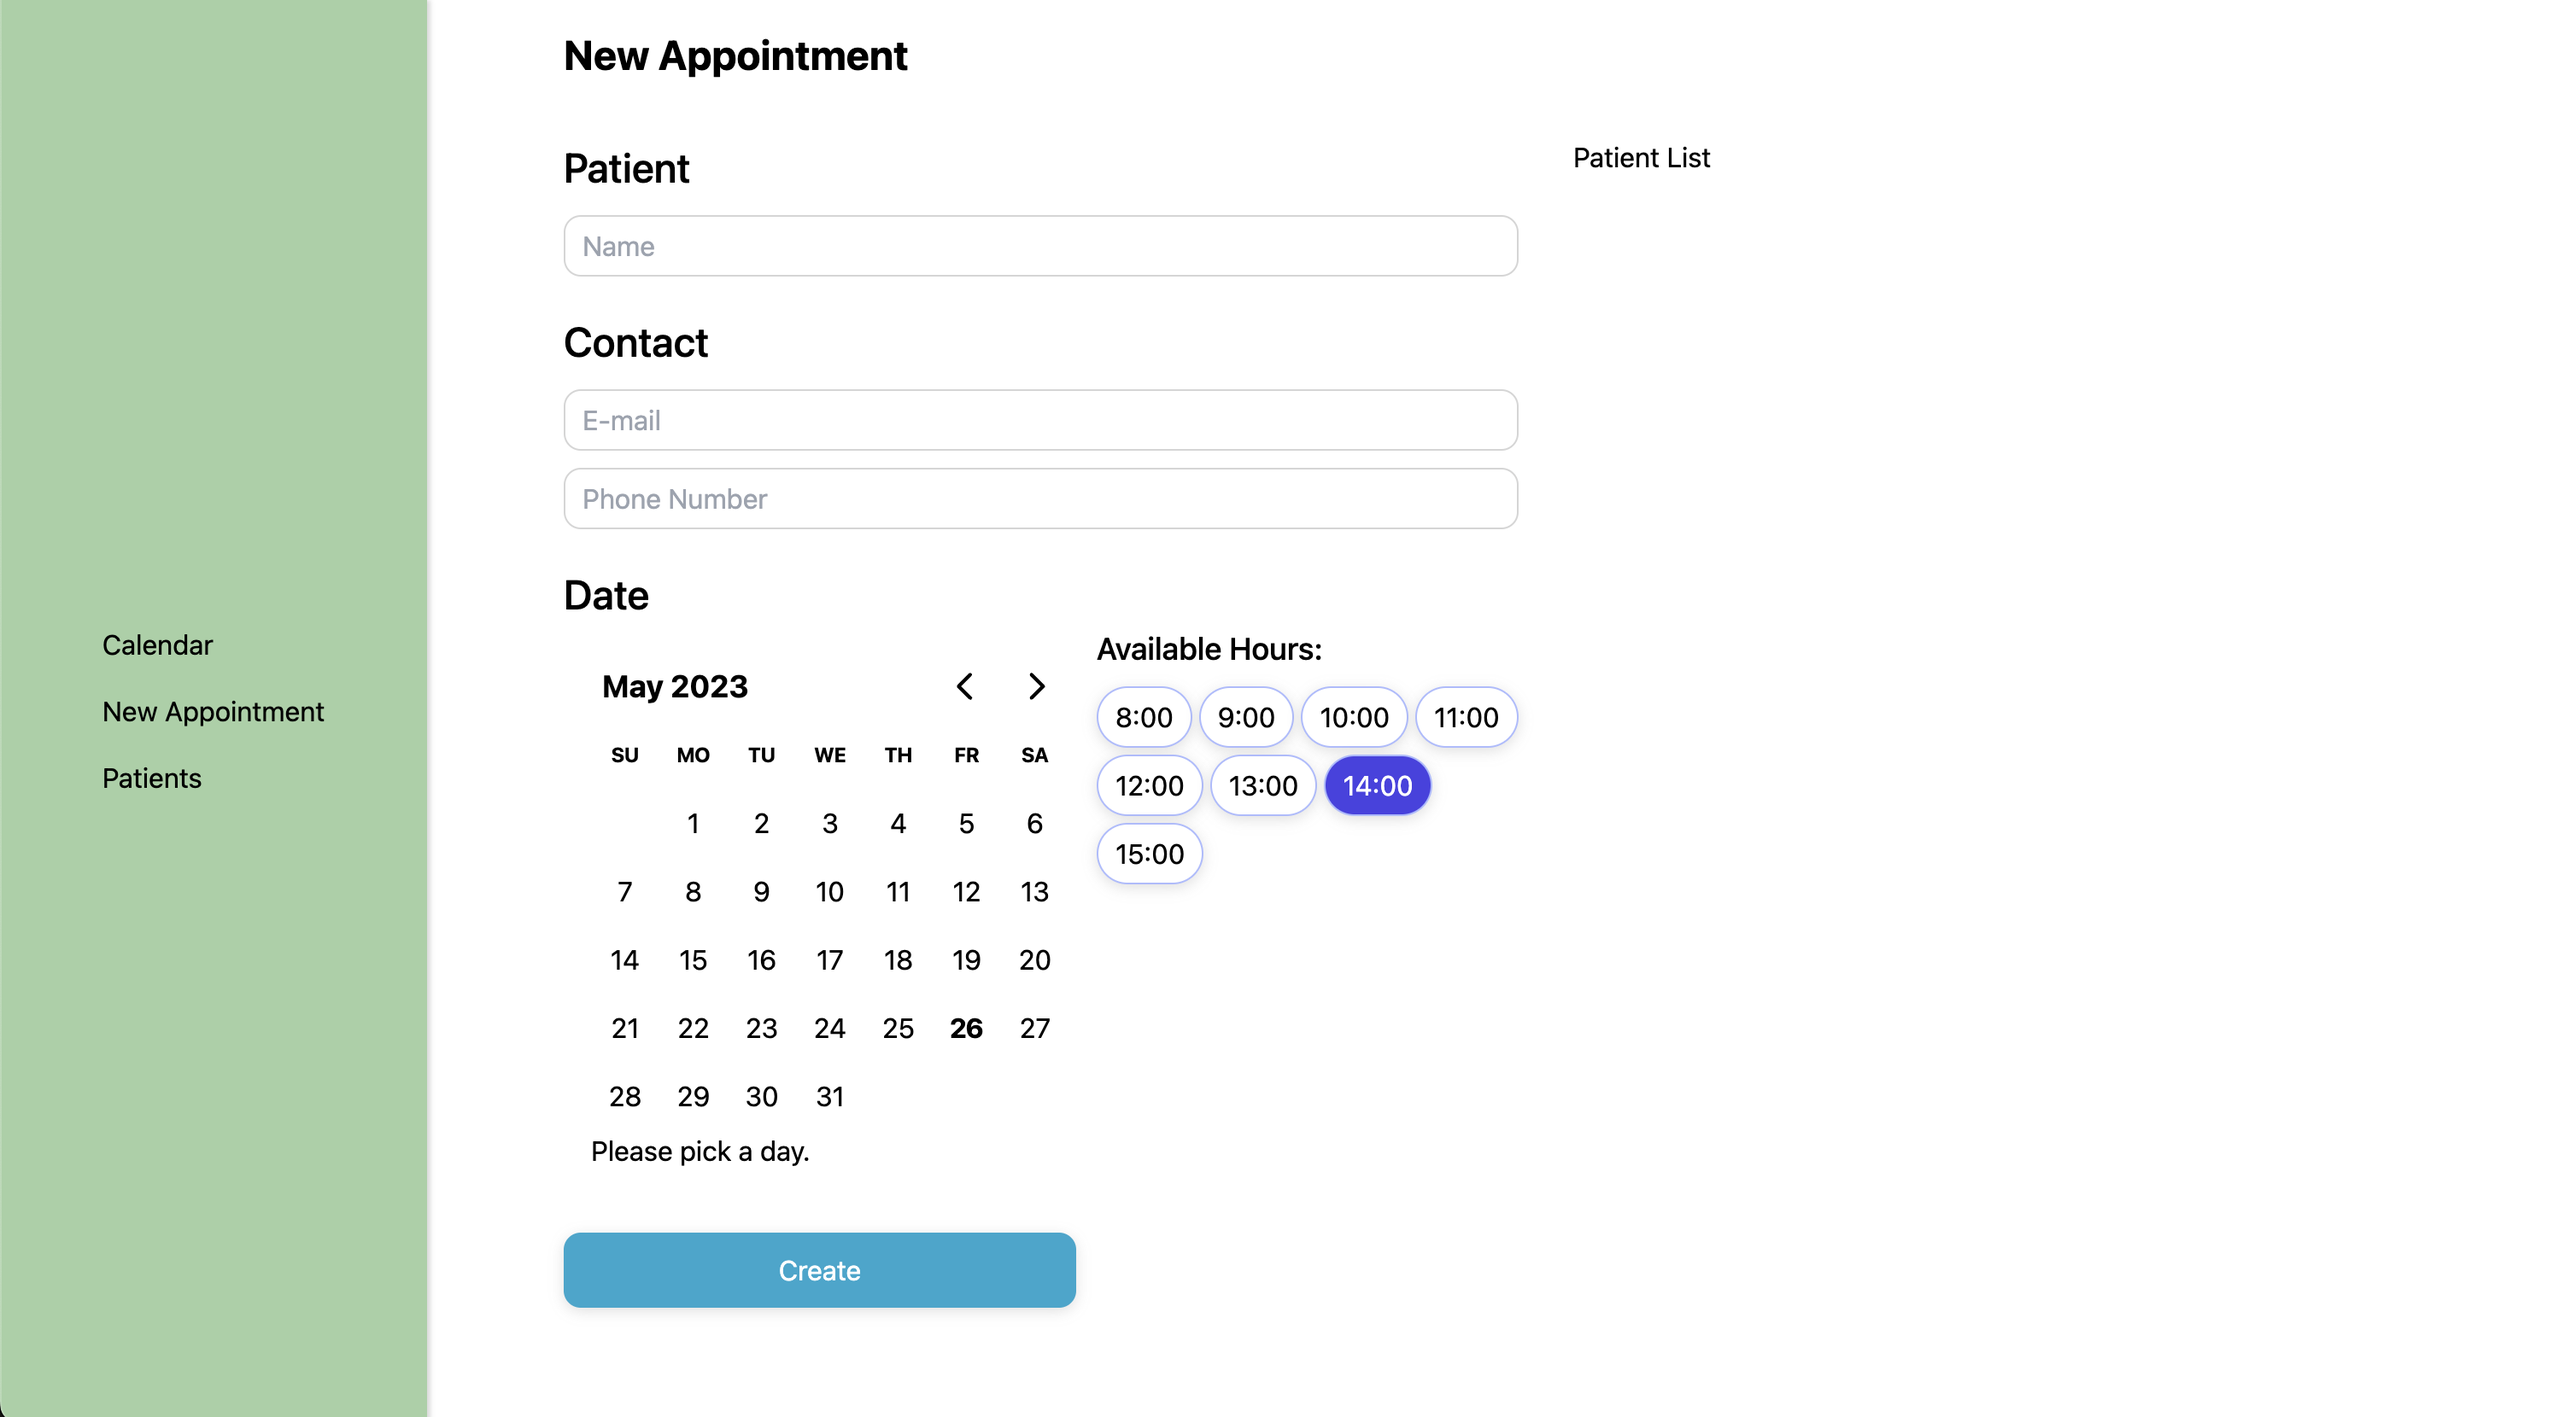
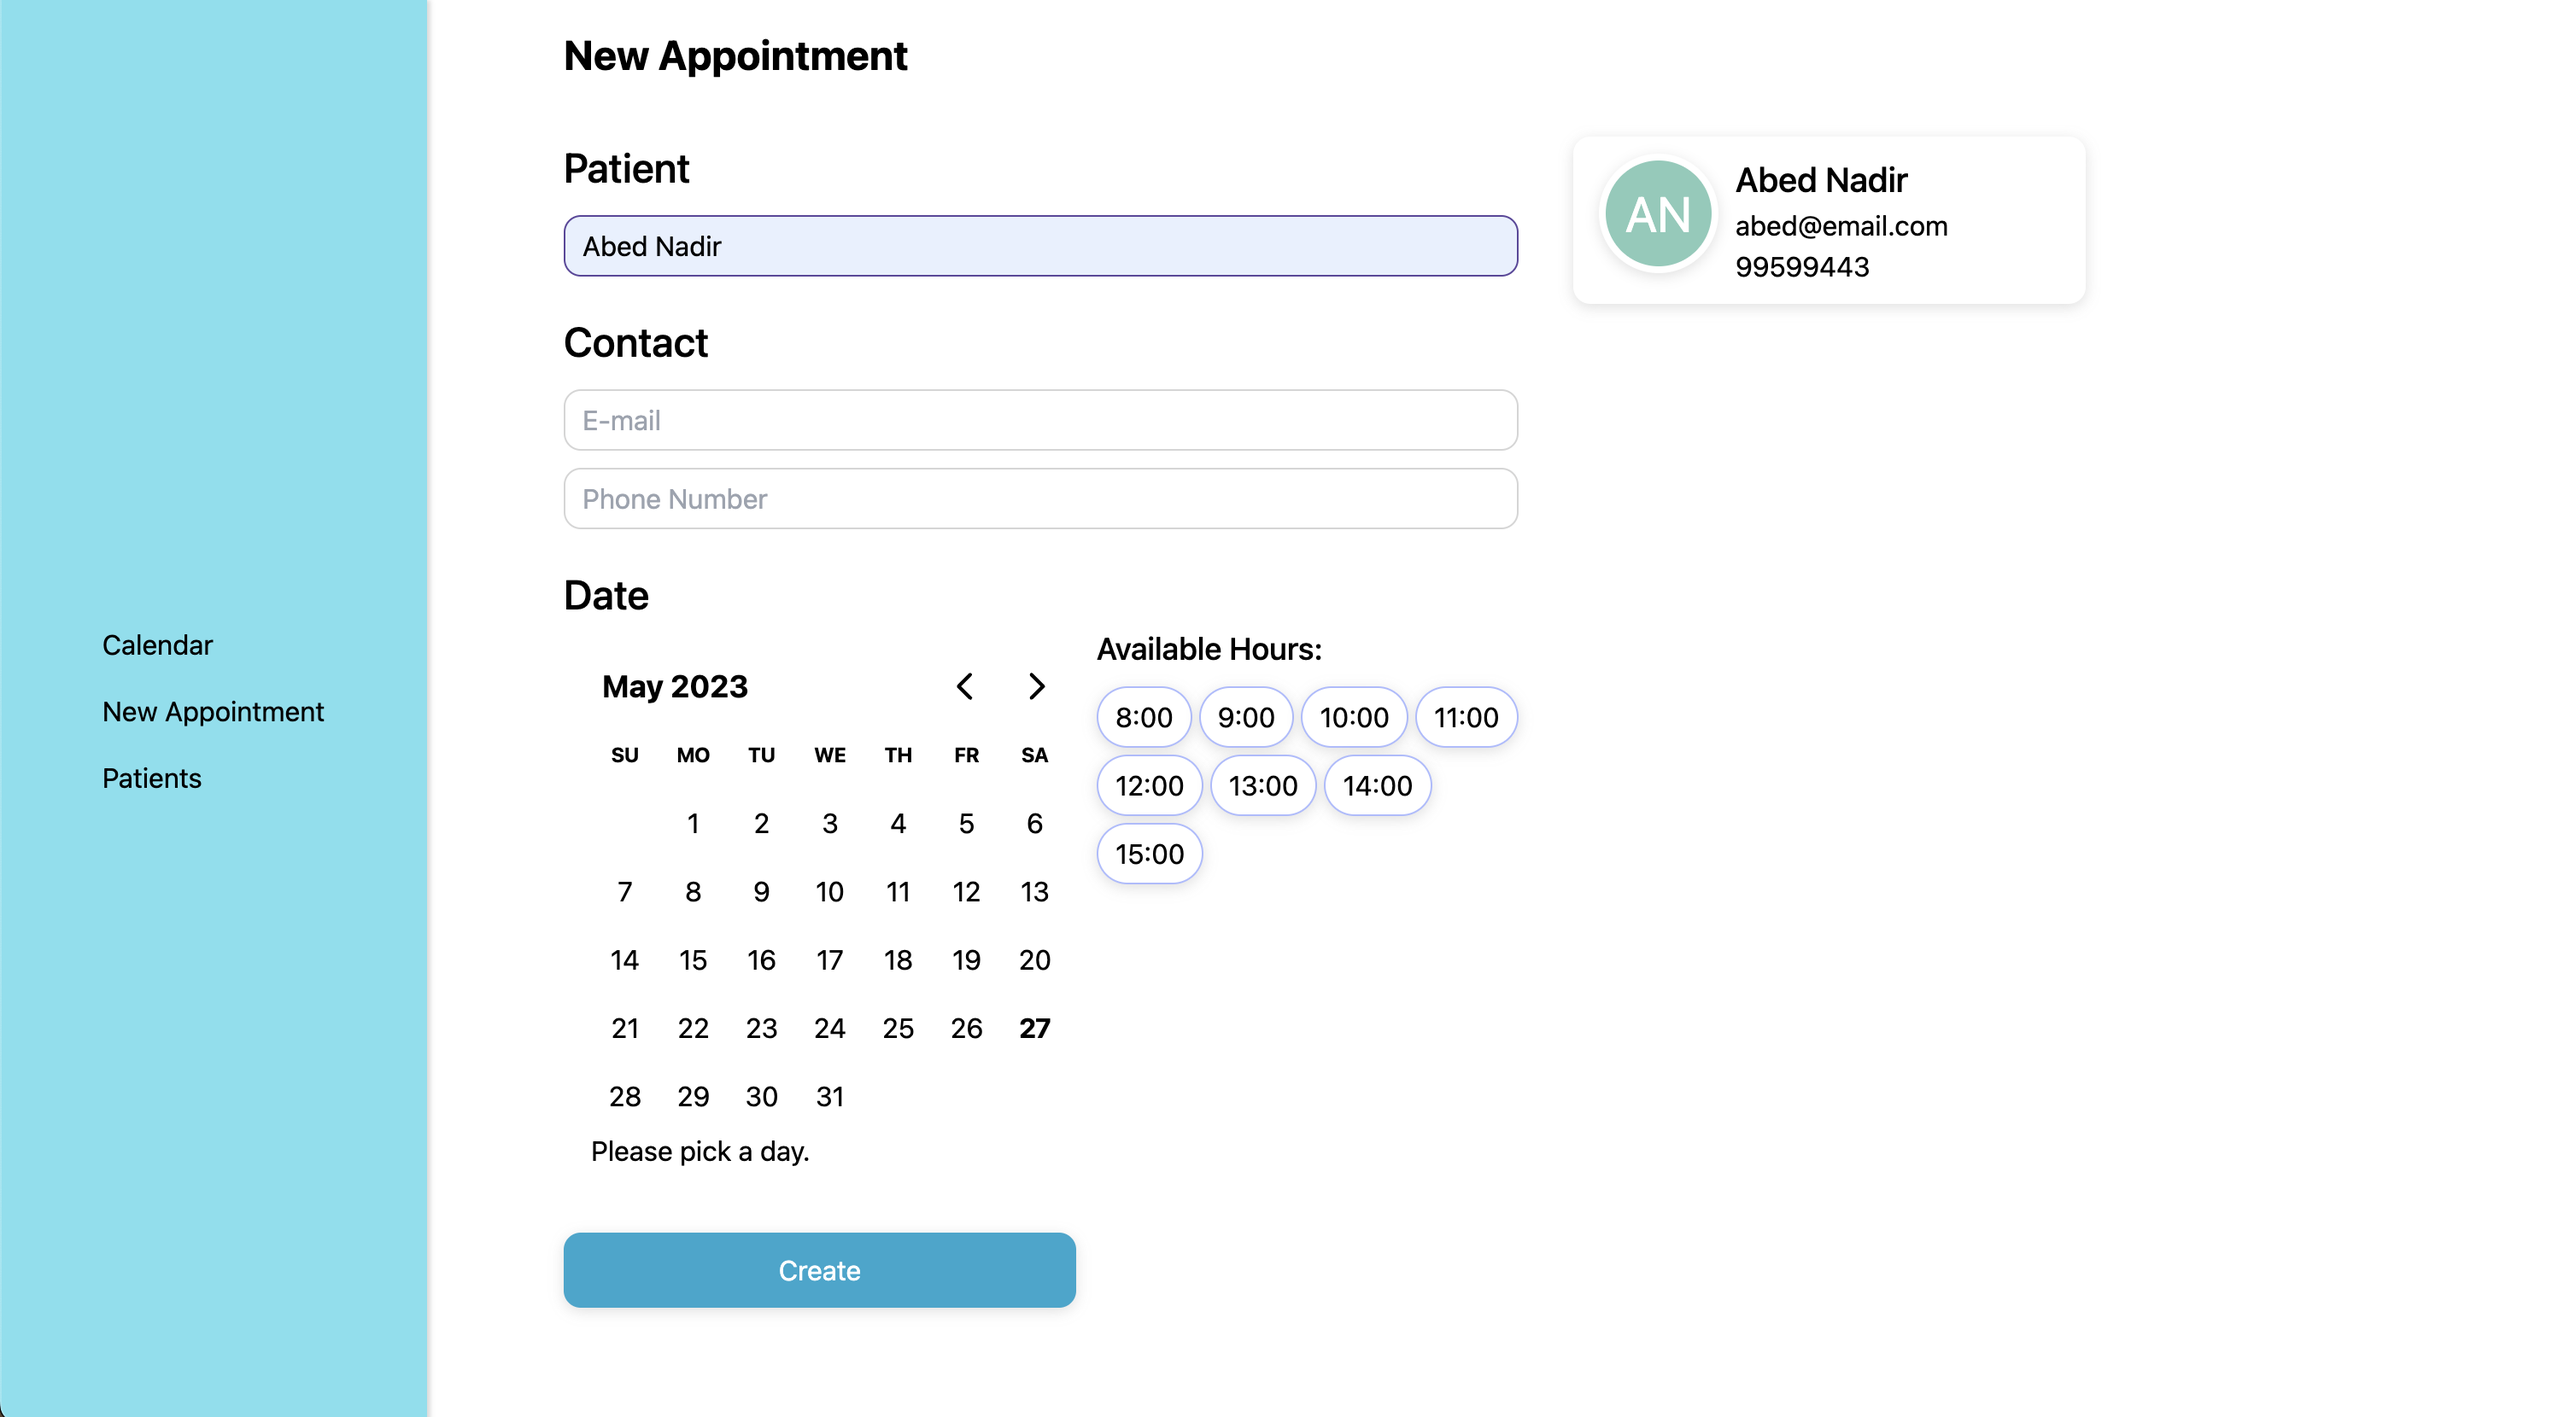
patient selection UX improvements

diff --git a/src/appointments/NewAppointment.tsx b/src/appointments/NewAppointment.tsx
@@ -2,22 +2,34 @@ import { useState } from "react";
 
 import styles from "./NewAppointment.module.css";
 import { PatientsList } from "./PatientsList";
+import { SearchPatients } from "./SearchPatients.observer";
 import { Formik, Form, FormikProps } from "formik";
 import InputField from "../components/InputField/InputField";
 import { AppointmentHour } from "../components/styled/AppointmentHour";
+import { PatientIdentifiedTag } from "./components/PatientIdentifiedTag";
 
 import "react-day-picker/dist/style.css";
 import { DayPicker } from "react-day-picker";
+import { IPatient } from "../interfaces/IPatient";
 
-const initialForm = {
+export interface IAppointmentForm {
+  name: string,
+  email: string,
+  phoneNumber: string,
+  date: Date,
+}
+
+export const initialForm: IAppointmentForm = {
   name: "",
   email: "",
   phoneNumber: "",
-  date: Date,
+  date: new Date,
 };
 
 function NewAppointment() {
   const [selectedTime, setSelectedTime] = useState("");
+  const [patients, setPatients] = useState([]);
+  const [selectedPatient, setSelectedPatient] = useState<IPatient>();
 
   const onSubmit = (values: any, actions: any) => {
     console.log("Submited");
@@ -48,8 +60,10 @@ function NewAppointment() {
     return errors;
   };
 
+  // Calendar
   const [selected, setSelected] = useState<Date>();
   const [appointments, setAppointments] = useState(0);
+
   let footer = <p>Please pick a day.</p>;
   if (selected) {
     footer = <p>{appointments} appointments today</p>;
@@ -60,6 +74,25 @@ function NewAppointment() {
     setSelected(selected);
     console.log(selected);
   };
+  // calendar
+
+  const handleSearchResponse = (response: any) => {
+    if (!selectedPatient) {
+      setPatients(response);
+    }
+  }
+
+  const handlePickedPatient = (patient: IPatient) => {
+    setSelectedPatient(patient);
+    setPatients([]);
+
+    // If in desktop Load Patient information page
+    // If in mobile see patient information modal button
+  }
+
+  const handleUnselectingPatient = () => {
+    setSelectedPatient(undefined);
+  }
 
   return (
     <section className="section-wrapper">
@@ -75,7 +108,8 @@ function NewAppointment() {
             <Form onSubmit={props.handleSubmit}>
               <div className={styles.formSection}>
                 <p className={styles.formSectionTitle}>Patient</p>
-                <InputField name="name" placeholder="Name" type="text" />
+                {selectedPatient && <PatientIdentifiedTag name={selectedPatient.name} onUnselect={handleUnselectingPatient}/>}
+                <InputField className={selectedPatient && "hidden"} name="name" placeholder="Name" type="text" selectedPatient={selectedPatient}/>
               </div>
               <div className={styles.formSection}>
                 <p className={styles.formSectionTitle}>Contact</p>
@@ -86,11 +120,12 @@ function NewAppointment() {
                       Inform at least one
                     </p>
                   )}
-                <InputField name="email" placeholder="E-mail" type="email" />
+                <InputField name="email" placeholder="E-mail" type="email" selectedPatient={selectedPatient}/>
                 <InputField
                   name="phoneNumber"
                   placeholder="Phone Number"
                   validateImmediately={true}
+                  selectedPatient={selectedPatient}
                 />
               </div>
               
@@ -112,6 +147,7 @@ function NewAppointment() {
                       {Array.from({ length: 8 }, (_, i) => i + 8).map((hour) => {
                         return (
                           <AppointmentHour
+                            key={hour}
                             onClick={() => {
                               setSelectedTime(hour.toString());
                             }}
@@ -129,13 +165,15 @@ function NewAppointment() {
               <button className="btn action" type="submit">
                 Create
               </button>
+
+              <SearchPatients searchResponse={handleSearchResponse} />
             </Form>
           )}
         </Formik>
       </div>
 
       <div className={`main ${styles.patientFilterItem}`}>
-        <PatientsList />
+        <PatientsList patients={patients} onPickingPatient={handlePickedPatient}/>
       </div>
     </section>
   );

diff --git a/src/components/InputField/InputField.tsx b/src/components/InputField/InputField.tsx
@@ -1,15 +1,39 @@
 import styles from "./InputField.module.css";
-import { useField, FieldHookConfig } from "formik";
+import { useField, FieldHookConfig, useFormikContext } from "formik";
+import { IPatient } from "../../interfaces/IPatient";
+import { useEffect } from "react";
+import { initialForm } from "../../appointments/NewAppointment";
 
-const InputField = (props: FieldHookConfig<string> & {label?: string, validateImmediately?: boolean}) => {
-    const [field, meta] = useField(props);
+const InputField = (props: FieldHookConfig<string> & {label?: string, validateImmediately?: boolean, selectedPatient?: IPatient}) => {
+    const [field, meta] = useField(props.name);
+
+    const { setFieldValue, resetForm } = useFormikContext();
+
+    useEffect(() => {
+        if (props.selectedPatient) {
+            const { name, email, phone } = props.selectedPatient;
+            switch(props.name) {
+                case 'name':
+                    setFieldValue(props.name, name);
+                    break;
+                case 'email':
+                    setFieldValue(props.name, email);
+                    break;
+                case 'phoneNumber':
+                    setFieldValue(props.name, phone);
+                    break;
+            }
+        } else {
+            resetForm({ values: initialForm });
+        }
+    }, [props.selectedPatient])
 
     return (
         <div className={styles.formSection}>
             {props.label && (
                 <p className={styles.formSectionTitle}>{props.label}</p>
             )}
-            <input {...field} placeholder={props.placeholder} type={props.type} />
+            <input disabled={!!props.selectedPatient} {...field} placeholder={props.placeholder} type={props.type} onChange={e =>  field.onChange(e)} />
         
             {((meta.touched || props.validateImmediately) && meta.error)  && (
                 <p className={styles.errorMessage} role="alert">

diff --git a/src/patients/PatientsPage.tsx b/src/patients/PatientsPage.tsx
@@ -1,7 +1,7 @@
-import axios from "axios";
 import { useEffect, useState } from "react";
 import { styled } from "styled-components";
 import { PatientCard } from "./PatientCard";
+import { getPatients } from "../services/patients";
 
 function PatientsPage() {
 
@@ -15,17 +15,11 @@ function PatientsPage() {
     const [patients, setPatients] = useState([]);
 
     useEffect(() => {
-        async function getPatients() {
-            const response = await axios.get('http://localhost:3000/patients');
-            const returnPatients = response.data;
-            setPatients(returnPatients);
-        }
-        try{
-            getPatients();
-        }
-        catch(error) {
-            console.log(error);
-        }
+        getPatients()
+        .then(data => {
+            setPatients(data);
+        })
+        .catch(errors => console.log(errors))
     }, [])
 
     return (

diff --git a/src/patients/PatientCard.tsx b/src/patients/PatientCard.tsx
@@ -8,7 +8,7 @@ export interface Patient {
     iconColor: string
 }
 
-export function PatientCard({patient}: { patient: Patient}) {
+export function PatientCard({patient, onSelecting}: { patient: Patient, onSelecting?: Function}) {
 
     const getInitials = (name: string): string => {
         const initials = name
@@ -20,8 +20,14 @@ export function PatientCard({patient}: { patient: Patient}) {
         return initials;
     }
 
+    const handleSeleting = () => {
+        if (onSelecting) {
+            onSelecting(patient);
+        }
+    }
+
     return(
-        <div className={`btn ${styles.patientCard}`}>
+        <div className={`btn ${styles.patientCard}`} onClick={handleSeleting}>
             <div className={styles.patientIcon} style={{ backgroundColor: patient.iconColor}}>{getInitials(patient.name)}</div>
 
             <div className={styles.infoContainer}>

diff --git a/src/appointments/PatientsList.tsx b/src/appointments/PatientsList.tsx
@@ -1,5 +1,15 @@
-export function PatientsList() {
+import { IPatient } from "../interfaces/IPatient"
+import { PatientCard } from "../patients/PatientCard"
+
+export function PatientsList({patients, onPickingPatient}: {patients: any[], onPickingPatient: Function}) {
+
+    const listPatients = patients?.length > 0 && patients.map((patient : IPatient) => {
+        return <PatientCard onSelecting={onPickingPatient} key={patient.id} patient={patient} />
+    });
+    
     return (
-        <h1>Patient List</h1>
+       <div className="flex flex-col gap-y-2">
+            {listPatients}
+       </div>
     )
 }

diff --git a/src/appointments/SearchPatients.observer.tsx b/src/appointments/SearchPatients.observer.tsx
@@ -1,0 +1,17 @@
+import { useFormikContext } from "formik";
+import { useEffect } from "react";
+import { queryPatients } from "../services/patients";
+import { IAppointmentForm } from "./NewAppointment";
+
+export const SearchPatients = ({searchResponse, } : {searchResponse : Function}) => {
+    const { values } = useFormikContext<IAppointmentForm>();
+    const { name } = values;
+  
+    useEffect(() => {
+      queryPatients(name)
+        .then((data) => searchResponse(data))
+        .catch(error => console.error(error))
+    }, [name]);
+  
+    return null;
+  };

diff --git a/src/appointments/components/PatientIdentifiedTag.tsx b/src/appointments/components/PatientIdentifiedTag.tsx
@@ -1,0 +1,19 @@
+export function PatientIdentifiedTag({
+  name,
+  onUnselect,
+}: {
+  name: string;
+  onUnselect: Function;
+}) {
+  return (
+    <div className="flex items-center p-2 px-4 bg-gray-100 w-fit rounded-full border border-sky-500">
+      <span className="pr-4">{name}</span>
+      <span
+        className="cursor-pointer inline-block px-2 rounded-full flex items-center text-slate-400"
+        onClick={() => onUnselect()}
+      >
+        x
+      </span>
+    </div>
+  );
+}

diff --git a/src/services/patients.ts b/src/services/patients.ts
@@ -1,0 +1,12 @@
+import axios from "axios";
+import { matchSorter } from "match-sorter";
+
+export async function getPatients() {
+    const res = await axios.get('http://localhost:3000/patients');
+    return await res.data;
+}
+
+export async function queryPatients(params : string) {
+    const patients = await getPatients();
+    return params ? matchSorter(patients, params, { keys: ['name'] }) : [];
+}

diff --git a/src/layout/SideMenu.tsx b/src/layout/SideMenu.tsx
@@ -4,7 +4,7 @@ import styled from "styled-components";
 function SideMenu() {
     
     const Nav = styled.nav`
-        background-color: #A4D0A4;
+        background-color: #79E0EE;
         min-width: 250px;
         height: 100vh;
         display: flex;

diff --git a/src/patients/PatientCard.module.css b/src/patients/PatientCard.module.css
@@ -4,6 +4,7 @@
     border-radius: 10px;
     column-gap: 10px;
     box-shadow: rgba(50, 50, 93, 0.25) 0px 2px 5px -1px, rgba(0, 0, 0, 0.3) 0px 1px 3px -1px;
+    cursor: pointer;
 }
 
 .patientIcon {

diff --git a/src/interfaces/IPatient.ts b/src/interfaces/IPatient.ts
@@ -1,0 +1,7 @@
+export interface IPatient {
+    id: string,
+    name: string,
+    email: string,
+    phone: string,
+    iconColor: string
+}
